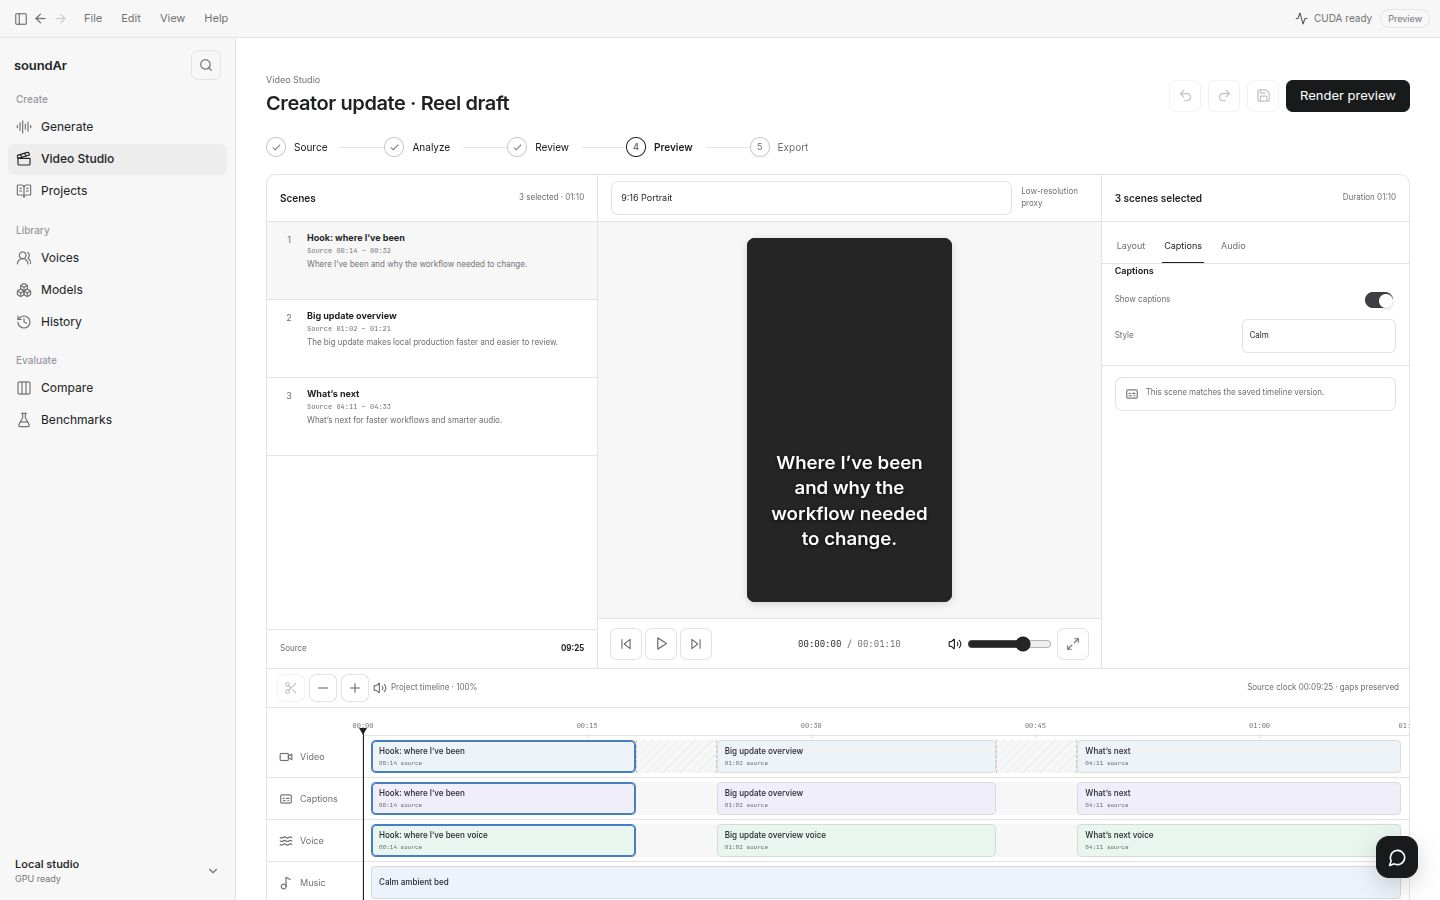
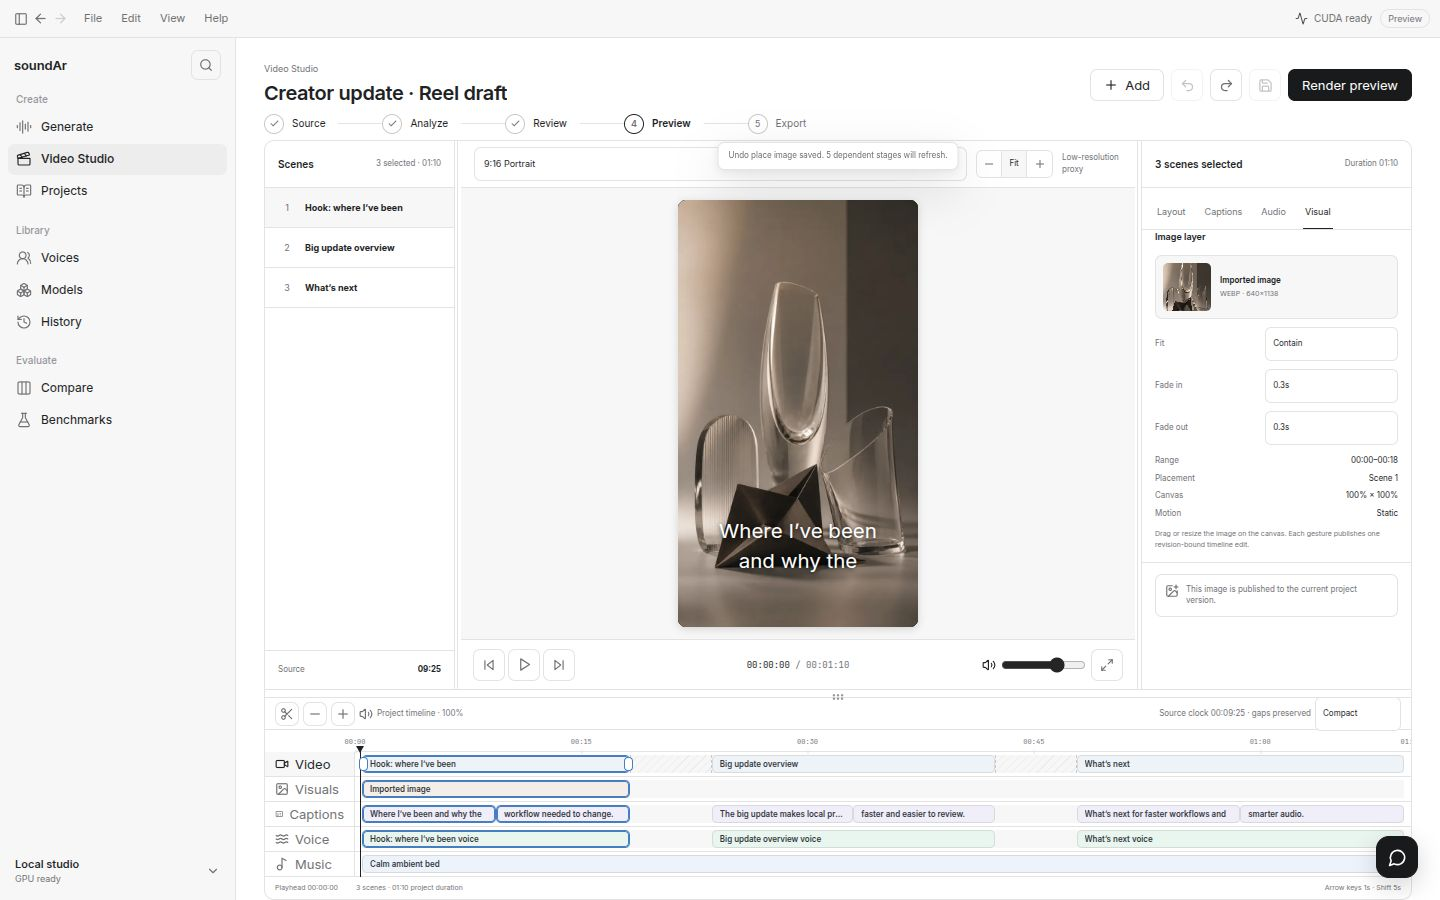
docs(video): showcase the composition workspace

diff --git a/README.md b/README.md
@@ -24,6 +24,8 @@ soundAr is an open-source desktop application for high-quality, private media pr
 - Generate speech from plain text, SSML, or batch inputs with local voice models.
 - Import one explicitly authorized link or local video, transcribe it on the source clock, review candidate moments, and export a portrait reel.
 - Start a video from a prompt, existing soundAr audio, or a project and build an animated podcast with captions, cards, waveform motion, speech, and music.
+- Compose still images and locally generated illustrations as timed visual layers with crop, fit, fades, and keyframed pan-and-zoom motion—without a conventional video-generation model.
+- Split, trim, reorder, and merge scenes on the durable source-clock timeline; drag and resize captions directly on the portrait canvas and choose from eight rendered caption treatments.
 - Revise a scene, voice, caption style, crop, mix, or opening conversationally and rerender only invalidated work.
 - Build longer work in chapter-based Projects and render chapters independently.
 - Create songs or instrumentals with ACE-Step 1.5 Studio, including structured sections and editable lyric timing.
@@ -69,16 +71,19 @@ Video Studio is one focused production workspace with three clear starts: **Impo
 
 Every project is backed by a versioned, microsecond timeline manifest. It records source assets, source-clock transcript and gaps, reviewed clips, scenes, captions, crop/layout, audio mix, generated artifacts, previews, masters, provenance, rights receipts, and revision history. Project locks, compare-and-swap revisions, durable job IDs, atomic publication, and content-addressed caches keep an interrupted or revised production recoverable.
 
+The editor keeps the portrait canvas prominent while scenes, inspector, and the collapsible multi-lane timeline remain compact. Scene cards show only their useful title; the timeline exposes video, visuals, captions, voice, and music without repeating metadata. Caption placement, visual motion, and clip edits commit through the same revision-checked application services used by rendering rather than living as UI-only state.
+
 The Linux pipeline includes:
 
 - FFprobe validation, low-resolution proxies, thumbnails, waveforms, portrait crop/layout, captions, cards, mixing, scene assembly, and local MP4 export through FFmpeg;
 - faster-whisper CUDA transcription with word timing and preserved presentation gaps;
 - reviewed candidate and scene planning through the existing authenticated Codex app-server integration;
+- registered PNG, JPEG, and WebP visual assets, image-sequence composition, and scene-bound illustration motion using the same FFmpeg render graph;
 - preview-first rendering and segment-level cache reuse, with H.264 NVENC when its runtime smoke passes and a visible software fallback otherwise;
 - playable masters and downloads in Video Studio, Projects, History, and the Assistant—never only an opaque filesystem path;
 - durable cancellation, resume, publish packages with checksums, and bounded CPU, IO, disk, VRAM, and encoder admission.
 
-The Assistant uses the same native services and contracts as the UI for preview, import, analysis, planning, revision, rendering, and export. It presents Source → Analyze → Plan and revise → Preview → Export as useful production phases, while the assembled master stays more prominent than chapter or scene artifacts.
+The Assistant uses the same native services and contracts as the UI for preview, import, analysis, planning, visual-asset registration, timeline editing, revision, rendering, and export. It presents Source → Analyze → Plan and revise → Preview → Export as useful production phases, while the assembled master stays more prominent than chapter or scene artifacts. The same strict tools are available without opening the desktop window through `soundar-desktop agent tools` and `soundar-desktop agent video <tool>`, so a Codex CLI production can create or reopen a durable project instead of falling back to shell-only media files.
 
 Video Studio needs FFmpeg/FFprobe for local media. Link import additionally needs yt-dlp with EJS and a supported JavaScript runtime; internal transcription needs a local faster-whisper or whisper.cpp model. The readiness screen discovers system, user, package-manager, managed, and explicitly configured locations without installing anything silently. See [Linux Video Studio setup](docs/video-studio-linux-setup.md) and the [exact-machine performance baseline](docs/video-studio-performance.md).
 
